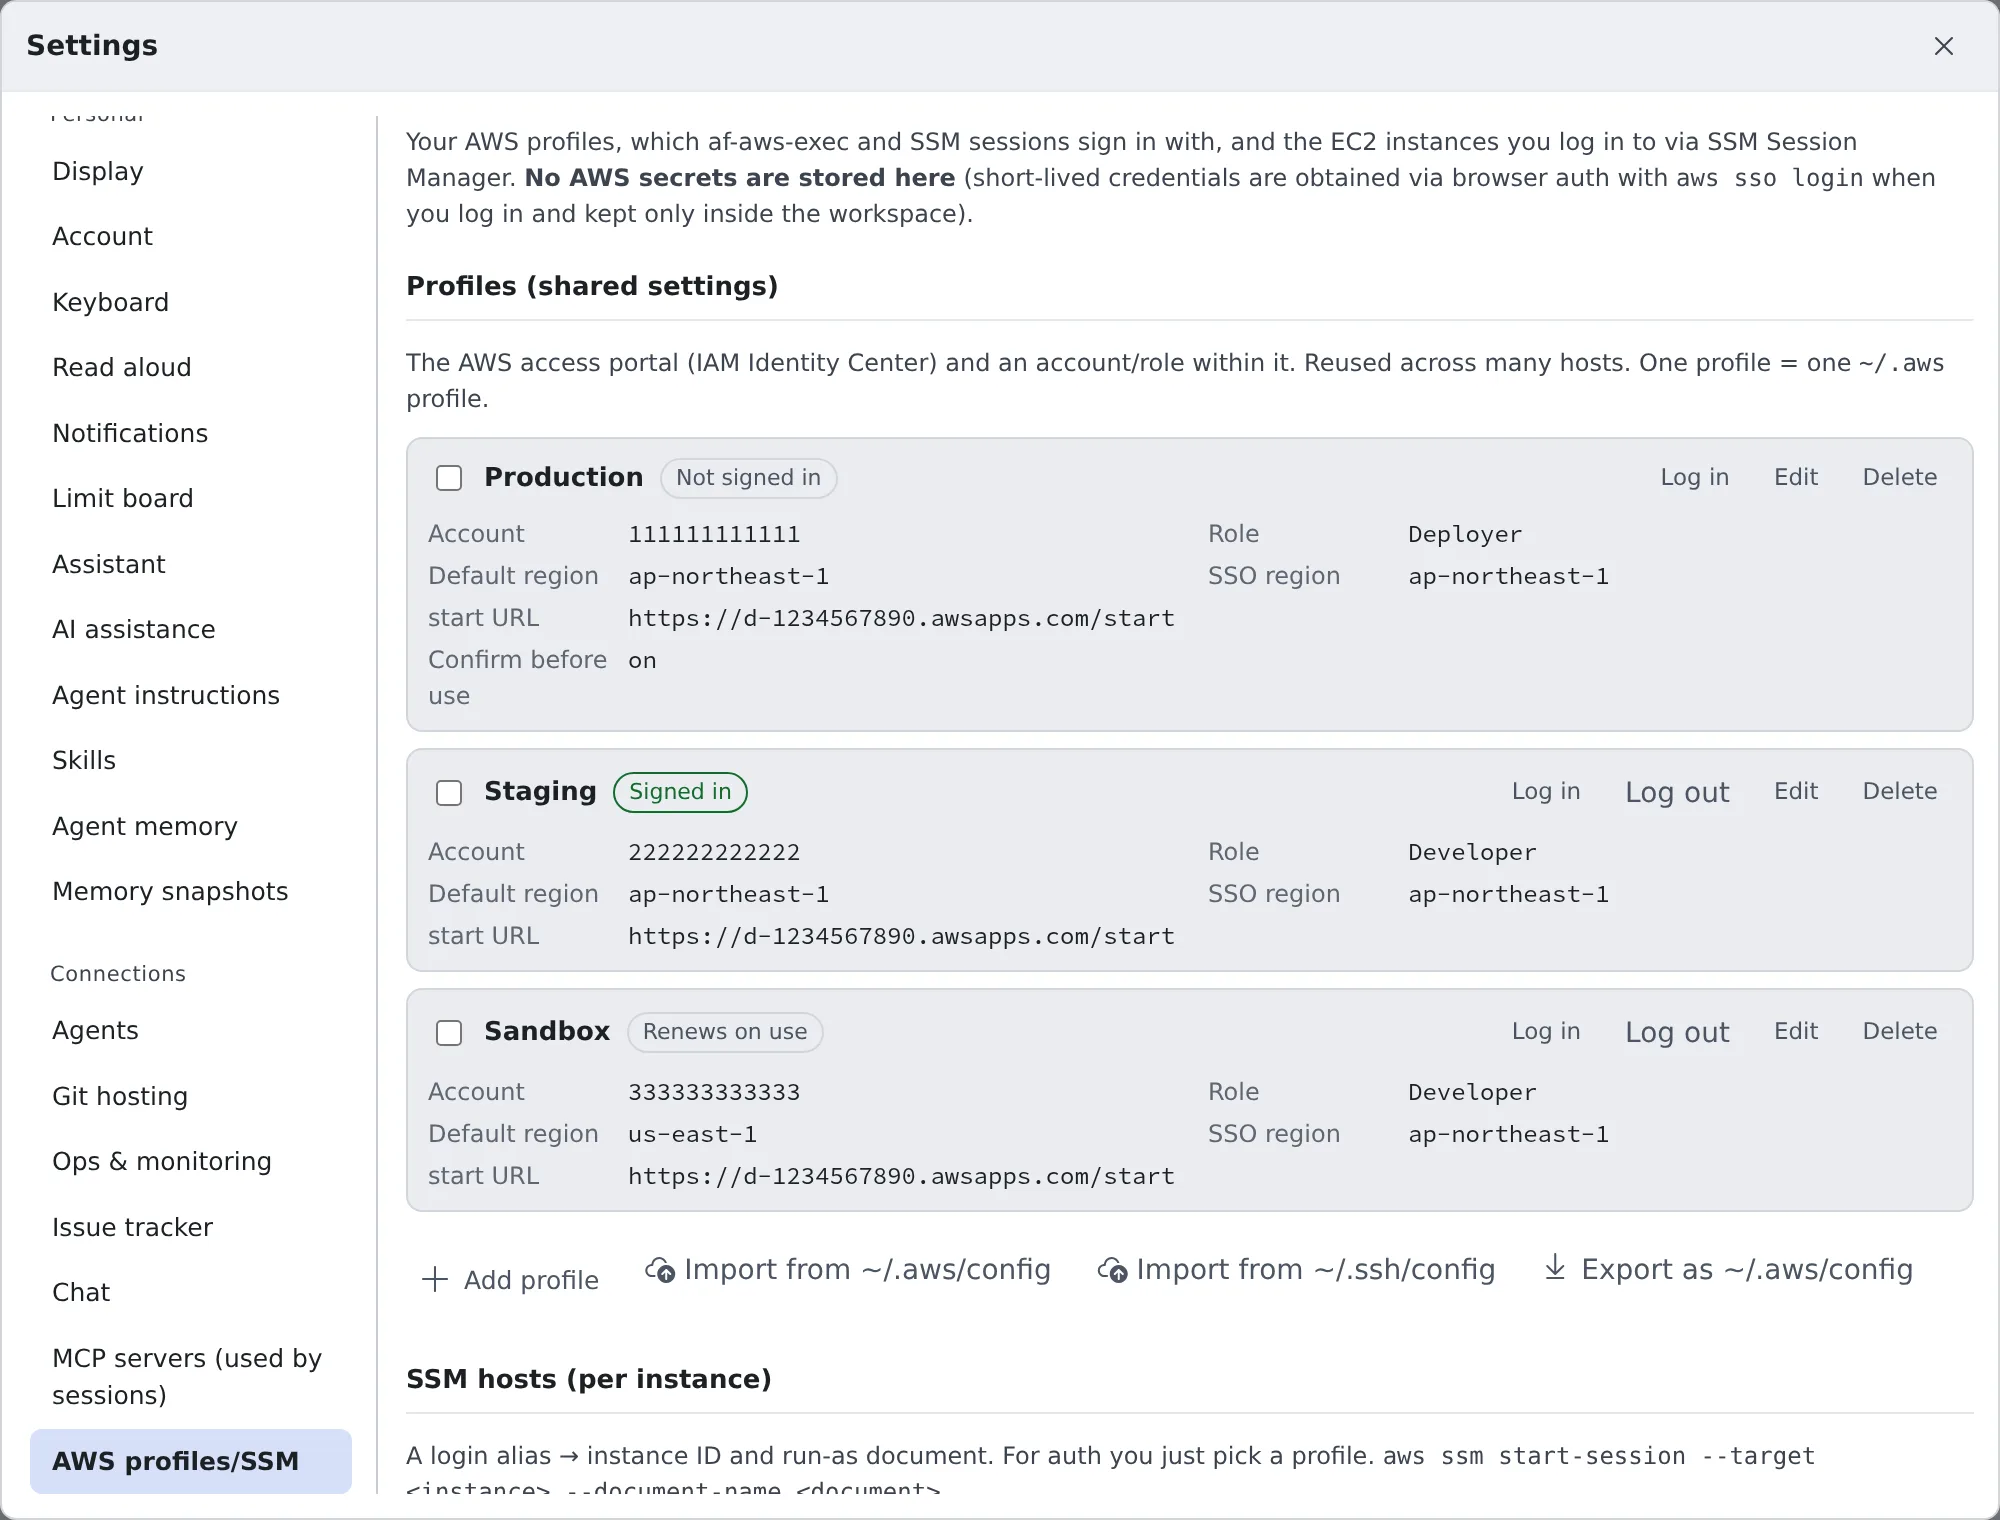
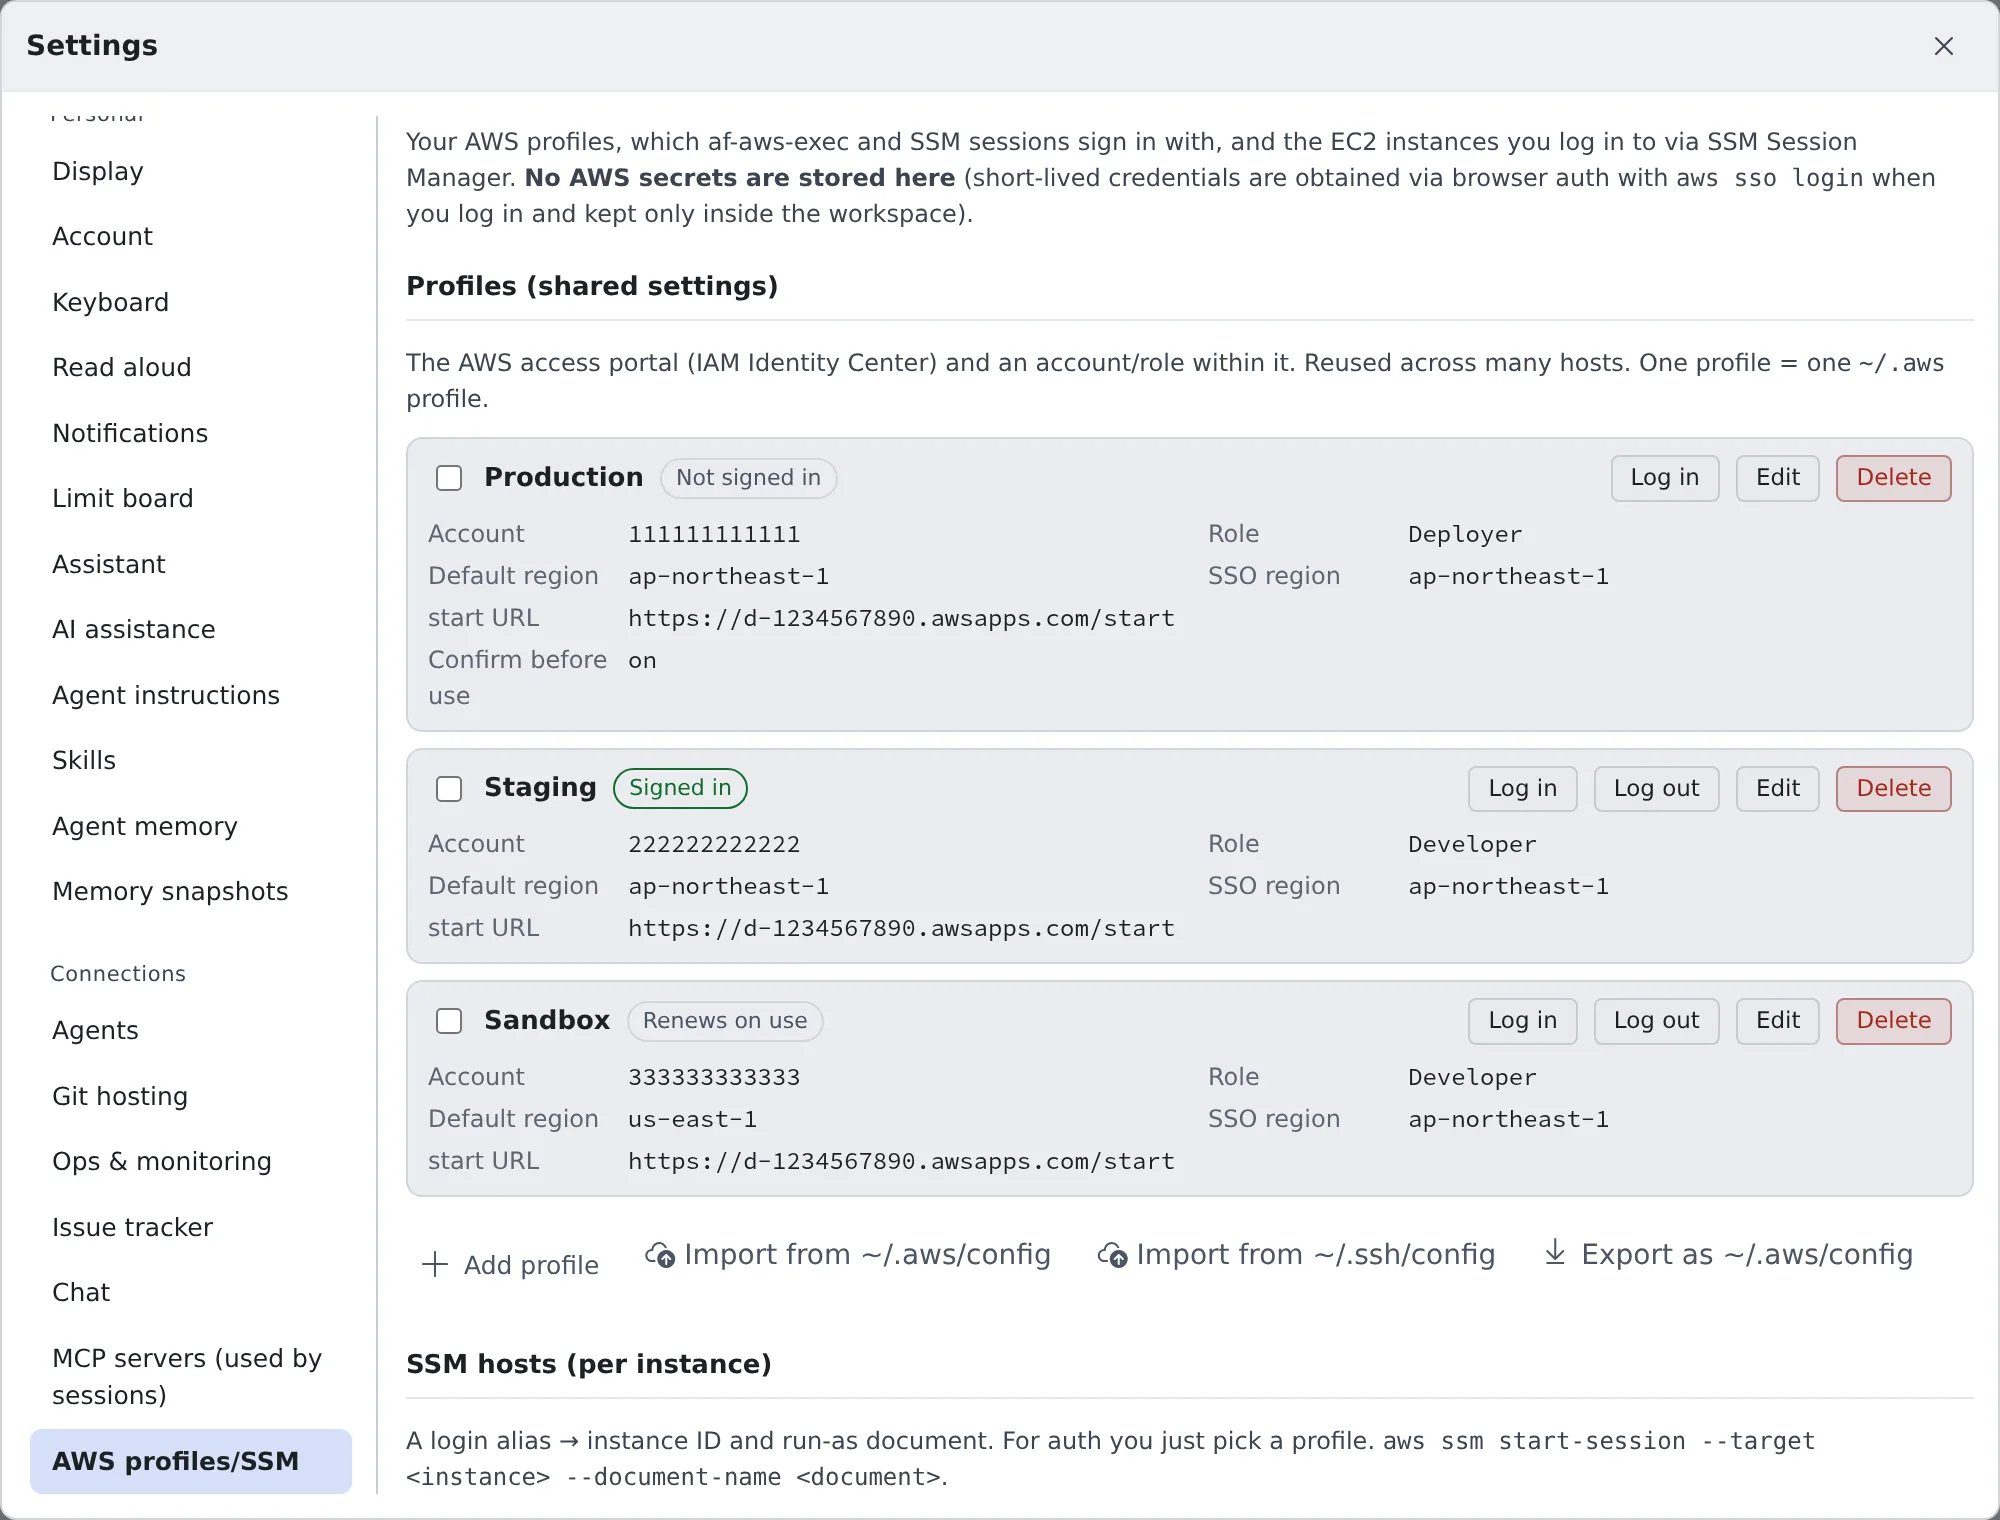
fix(console): make AWS profile row actions look like buttons
Root cause: the row actions in Settings > AWS profiles/SSM used the
settings `ghost` style (transparent, borderless, muted), so Log in,
Log out and Edit read as plain words. Log out also rendered larger
because `.ssm-logout` / `.ssm-signin-logout` had no size rule, unlike
`.ssm-login` / `.ssm-edit` / `.ssm-del`.

Fix: SsmTab's row actions (profile rows, shared sign-in heading, host
rows) now share one `ssm-row-action` class: bordered, filled, 11.5px /
2px 9px. Delete keeps a red-tinted frame as the destructive action.
`ghost` is untouched and GcpTab / MCP rows keep their styles. The rule
is `button.ssm-row-action` because shell.css's
`:where(.settings-modal) button.ghost` is (0,1,1) and beats a bare class.

Verification: new dom tests assert every row action carries the class
and fail without it (2 failures with the class removed, green with it);
console/src/features/settings suite green (the one settingsRail timeout
under load passes alone); npm run build ok; guide/assets
aws-settings-{en,ja}-light.webp retaken with console/scripts/shots and
the light and dark renders checked by eye in headless Chromium.

Refs #3573

diff --git a/console/src/features/settings/workspace/SsmTab.tsx b/console/src/features/settings/workspace/SsmTab.tsx
@@ -818,7 +818,7 @@ function ProfileSection({
             )
           )}
           <button
-            className="ghost ssm-login ssm-signin-login"
+            className="ghost ssm-row-action ssm-login ssm-signin-login"
             title={loginMember ? tr("ssm.sign_in_login_title", { signIn: si.name }) : tr("ssm.login_off_incomplete")}
             disabled={busy || !loginMember}
             onClick={() =>
@@ -830,7 +830,7 @@ function ProfileSection({
           </button>
           {loginMember && !relogin && (st === "signed_in" || st === "renew") && (
             <button
-              className="ghost ssm-logout ssm-signin-logout"
+              className="ghost ssm-row-action ssm-logout ssm-signin-logout"
               title={tr("awslogin.logout_title")}
               disabled={busy || loggingOut[loginMember.name] === true}
               onClick={() => void logout(loginMember, candidates.slice(1).map((m) => String(m.name))).then((done) => done && loadStates())}
@@ -839,7 +839,7 @@ function ProfileSection({
             </button>
           )}
           <button
-            className="ghost ssm-edit ssm-signin-edit"
+            className="ghost ssm-row-action ssm-edit ssm-signin-edit"
             title={tr("ssm.sign_in_edit_title")}
             disabled={busy || !si.id || editingSignIn?.id === si.id}
             onClick={() => startEditSignIn(si)}
@@ -897,7 +897,7 @@ function ProfileSection({
         )}
         {!grouped && (
           <button
-            className="ghost ssm-login"
+            className="ghost ssm-row-action ssm-login"
             title={loginOff(p) || tr("ssm.login_title")}
             disabled={busy || loginOff(p) !== null}
             onClick={() => {
@@ -912,7 +912,7 @@ function ProfileSection({
             names the source and the chains following it), so it needs a source to end. */}
         {!grouped && p.name && !reloginNeeded.has(loginTarget(p).id) && !(isChained(p) && isChained(loginTarget(p))) && (states[p.name] === "signed_in" || states[p.name] === "renew") && (
           <button
-            className="ghost ssm-logout"
+            className="ghost ssm-row-action ssm-logout"
             title={tr("awslogin.logout_title")}
             disabled={busy || loggingOut[p.name] === true}
             onClick={() => void logout(p).then((done) => done && loadStates())}
@@ -921,14 +921,14 @@ function ProfileSection({
           </button>
         )}
         <button
-          className="ghost ssm-edit"
+          className="ghost ssm-row-action ssm-edit"
           title={tr("ssm.edit_profile_title")}
           disabled={busy || editing?.id === p.id}
           onClick={() => startEdit(p)}
         >
           {tr("ssm.edit")}
         </button>
-        <button className="ghost danger ssm-del" title={tr("common.delete")} disabled={busy} onClick={() => remove(p.id)}>
+        <button className="ghost danger ssm-row-action ssm-del" title={tr("common.delete")} disabled={busy} onClick={() => remove(p.id)}>
           {tr("common.delete")}
         </button>
       </div>
@@ -1281,14 +1281,14 @@ function HostSection({
                 <div className="ssm-item-head">
                   <span className="ssm-alias">{h.alias}</span>
                   <button
-                    className="ghost ssm-edit push"
+                    className="ghost ssm-row-action ssm-edit push"
                     title={tr("ssm.edit_host_title")}
                     disabled={busy || editing === h.id}
                     onClick={() => startEdit(h)}
                   >
                     {tr("ssm.edit")}
                   </button>
-                  <button className="ghost danger ssm-del" title={tr("common.delete")} disabled={busy} onClick={() => remove(h.id)}>
+                  <button className="ghost danger ssm-row-action ssm-del" title={tr("common.delete")} disabled={busy} onClick={() => remove(h.id)}>
                     {tr("common.delete")}
                   </button>
                 </div>

diff --git a/console/src/features/settings/parts/common.css b/console/src/features/settings/parts/common.css
@@ -666,6 +666,34 @@
   font-family: var(--mono);
 }
 
+/* Row actions of the AWS profiles tab (Log in / Log out / Edit / Delete): one bordered, filled
+   button at one size. Settings' bare `button.ghost` is borderless and muted, which read as plain
+   words; `ghost` itself stays as it is for every other tab. The element in the selector is
+   load-bearing: shell.css's `:where(.settings-modal) button.ghost` is (0,1,1) and beats a bare
+   class (measured: Log in / Edit stayed borderless in the screenshot). */
+button.ssm-row-action {
+  font-size: 11.5px;
+  padding: 2px 9px;
+  background: var(--btn);
+  border: 1px solid var(--btn-border);
+  color: var(--fg);
+}
+
+button.ssm-row-action:hover:not(:disabled) {
+  background: color-mix(in srgb, var(--fg) 10%, var(--btn));
+}
+
+/* Delete stays the destructive one: red text and a red-tinted frame. */
+button.ssm-row-action.danger {
+  background: color-mix(in srgb, var(--err) 10%, transparent);
+  border-color: color-mix(in srgb, var(--err) 45%, var(--btn-border));
+  color: var(--err);
+}
+
+button.ssm-row-action.danger:hover:not(:disabled) {
+  background: color-mix(in srgb, var(--err) 22%, transparent);
+}
+
 /* item delete: a labeled danger button instead of a bare ✕ */
 .ssm-del {
   font-size: 11.5px;

diff --git a/console/src/features/settings/workspace/SsmTab.dom.test.tsx b/console/src/features/settings/workspace/SsmTab.dom.test.tsx
@@ -213,6 +213,18 @@ describe("SsmTab profile row Log out", () => {
     expect(calls.filter((c) => c.path === "api/aws-login/profiles").length).toBeGreaterThan(asked);
     expect(logouts()).toHaveLength(1);
   });
+  it("gives every row action (Log in, Log out, Edit, Delete) the one shared button class", async () => {
+    states = [{ name: "prod-app", state: "signed_in" }];
+    await mount();
+    const head = host.querySelector(".ssm-item-head")!;
+    const labels = [t("ssm.login"), t("awslogin.logout"), t("ssm.edit"), t("common.delete")];
+    const btns = Array.from(head.querySelectorAll<HTMLButtonElement>("button"));
+    expect(btns.map((b) => b.textContent?.trim())).toEqual(labels);
+    for (const b of btns) expect(b.classList.contains("ssm-row-action")).toBe(true);
+    // Delete stays the destructive one.
+    expect(btns[3].classList.contains("danger")).toBe(true);
+    expect(btns.slice(0, 3).some((b) => b.classList.contains("danger"))).toBe(false);
+  });
   it("keeps the button off while its logout runs, so a second press sends nothing", async () => {
     states = [{ name: "prod-app", state: "signed_in" }];
     let open!: () => void;

diff --git a/console/src/features/settings/workspace/SsmTabSignIn.dom.test.tsx b/console/src/features/settings/workspace/SsmTabSignIn.dom.test.tsx
@@ -162,6 +162,10 @@ describe("SsmTab shared sign-ins", () => {
     }
     expect(h.querySelectorAll("button.ssm-login")).toHaveLength(1);
     expect(h.querySelectorAll("button.ssm-logout")).toHaveLength(1);
+    // The shared sign-in's heading actions wear the same button class as a profile row's.
+    const headBtns = Array.from(h.querySelectorAll<HTMLButtonElement>(".ssm-signin-head > button"));
+    expect(headBtns.map((b) => b.textContent?.trim())).toEqual([t("ssm.login"), t("awslogin.logout"), t("ssm.edit")]);
+    for (const b of headBtns) expect(b.classList.contains("ssm-row-action")).toBe(true);
     // A profile of its own keeps today's row.
     const own = Array.from(host.querySelectorAll<HTMLElement>("li.ssm-item:not(.ssm-member):not(.ssm-signin)"));
     expect(own.map((r) => r.querySelector(".ssm-alias")?.textContent)).toEqual(["solo"]);
